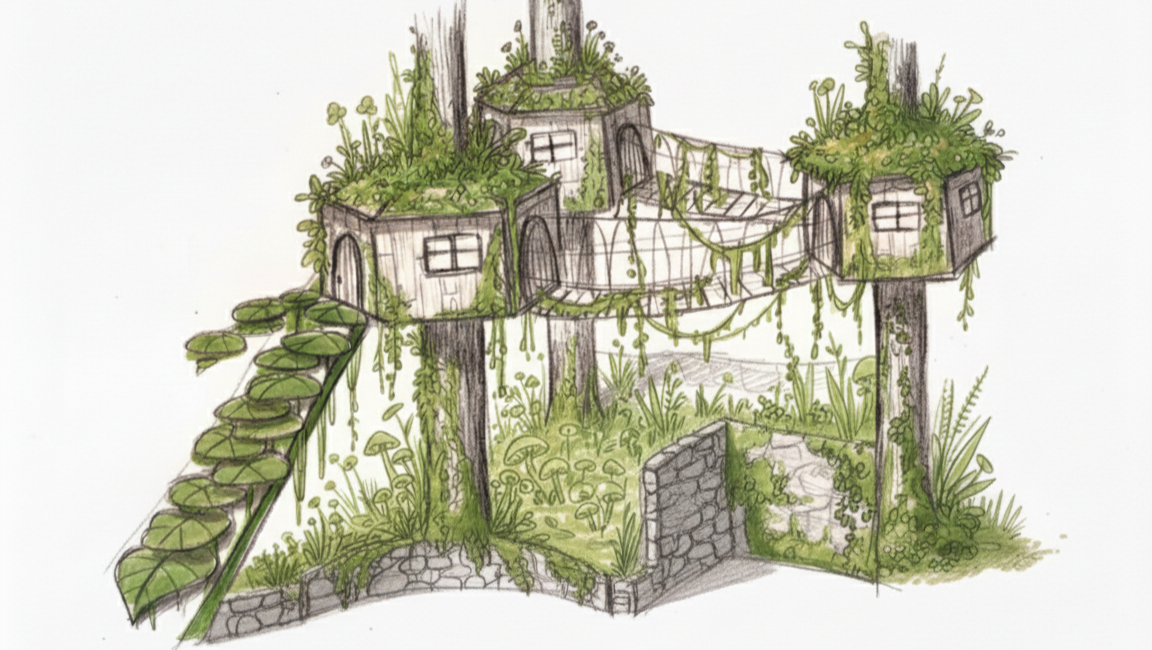
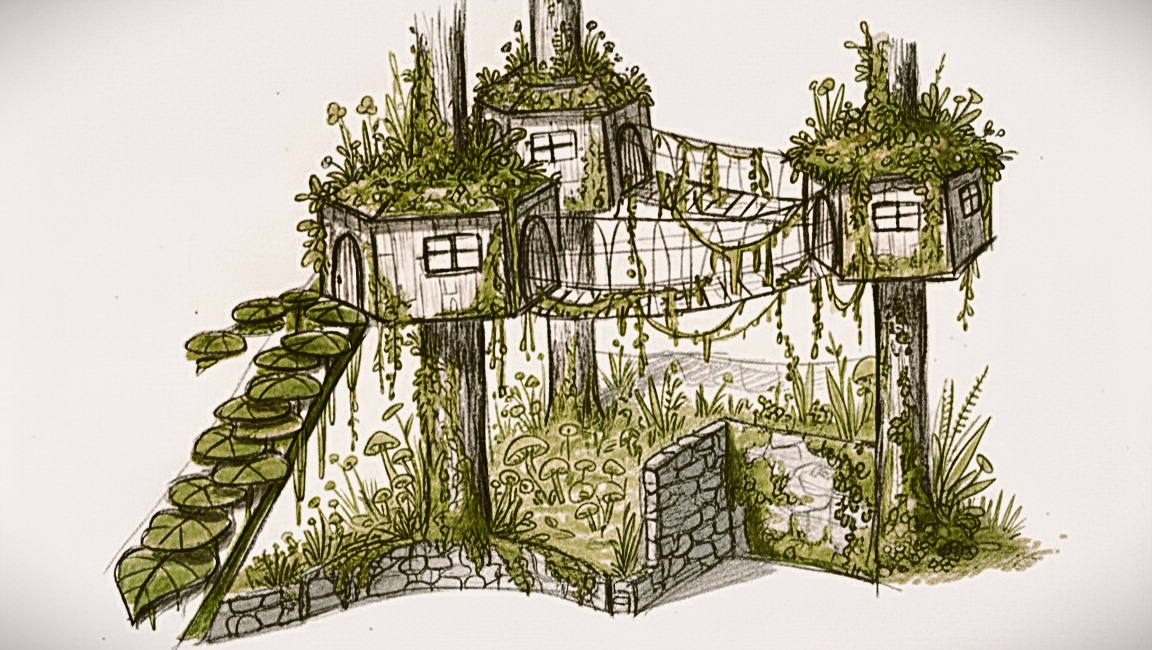
update blur

diff --git a/src/components/FeaturedProjects.js b/src/components/FeaturedProjects.js
@@ -128,7 +128,7 @@ export default function FeaturedProjects() {
                 </div>
                 <div className={`cont--image ${inView2 ? 'visible' : 'hidden-left'}`}>
                     <div className='embed embed--image-2'>
-                        <div className='filter--embed-image'></div>
+                        <div className='filter--embed-image less-blurred'></div>
                         <div className='cont--embed-image' style={{ backgroundImage: `url(${canopyWalkScreenshot})` }}></div>
                     </div>
                 </div>

diff --git a/src/components/FeaturedProjects.css b/src/components/FeaturedProjects.css
@@ -97,6 +97,10 @@
     z-index: 0;
 }
 
+.filter--embed-image.less-blurred {
+    backdrop-filter: blur(1.5px);
+}
+
 .cont--embed-image {
     position: absolute;
     top: 0;
